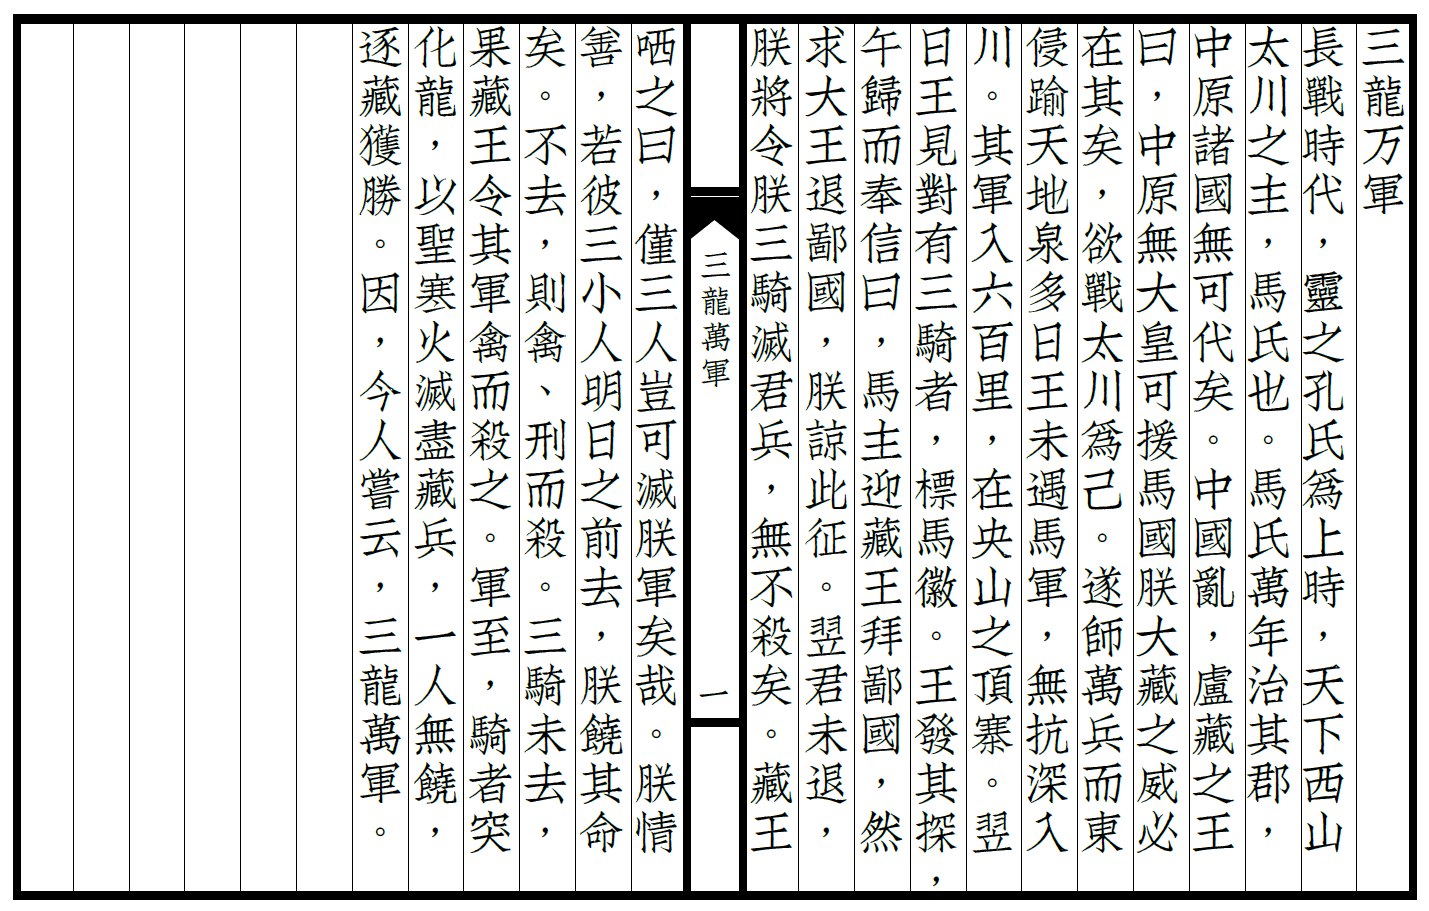
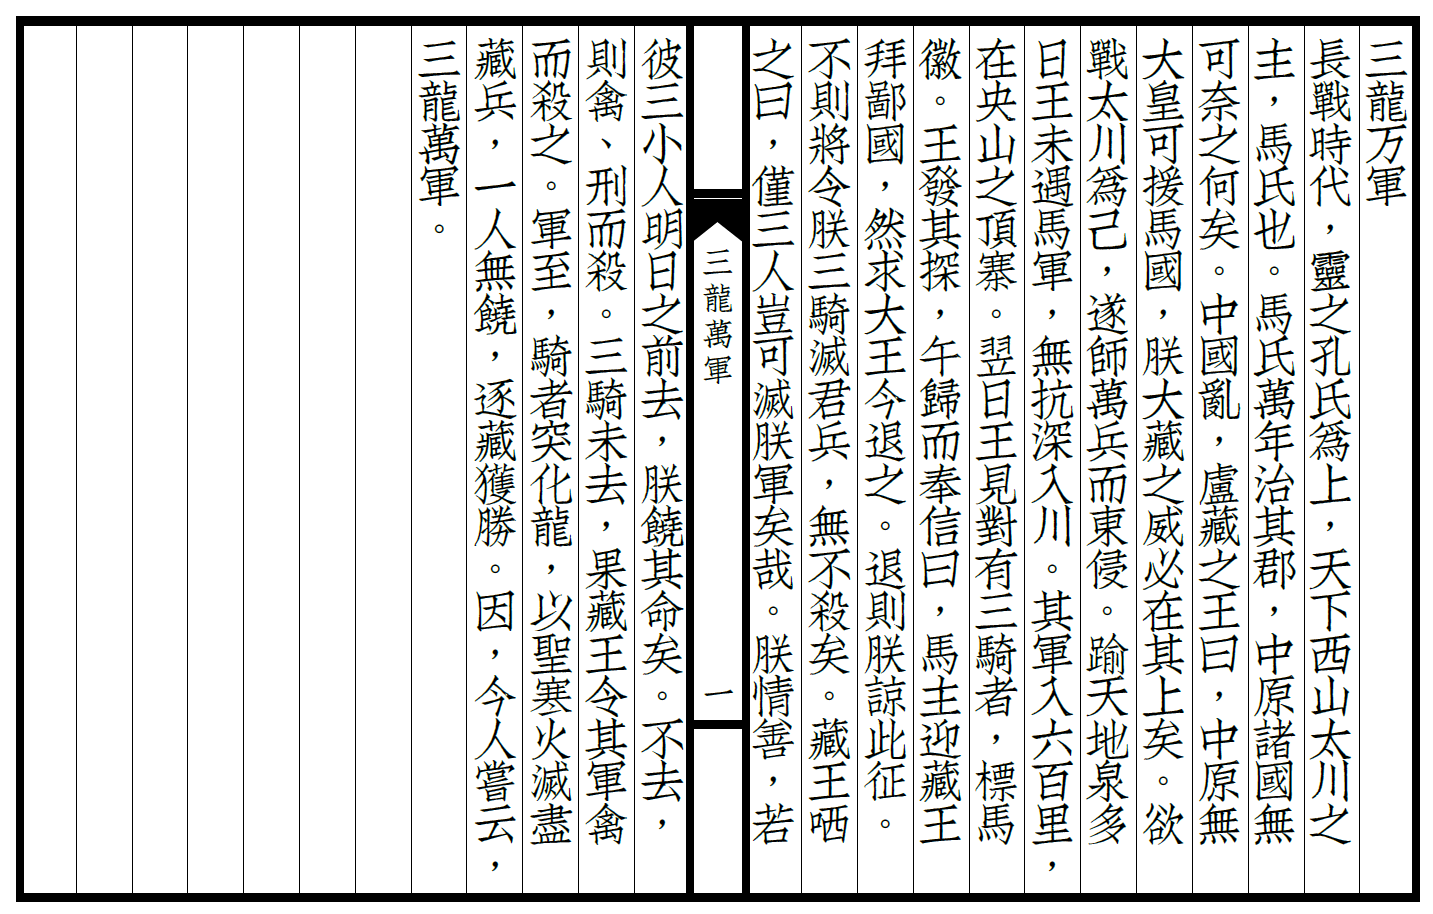
fix 3dragons

Changed region(s): [[0.0, 0.0, 0.9853, 0.9835]]

diff --git a/blog-cael/3dragons/index.html b/blog-cael/3dragons/index.html
@@ -54,42 +54,49 @@
 
 			<figure>
 				<img src="./text.png" alt="
-				长战时代，灵之孔氏为上时，天下西山
-				太川之主，马氏也。马氏萬年治其郡，
-				中原诸国無可代矣。中国乱，卢藏之王
-				曰，中原無大皇可援马国朕大藏之威必
-				在其矣，欲战太川为己。遂师萬兵而东
-				侵踰天地泉多日王未遇马军，無抗深入
-				川。其军入六百里，在央山之顶寨。翌
-				日王见对有三骑者，标马徽。王發其探，
-				午归而奉信曰，马主迎藏王拜鄙国，
-				然求大王退鄙国，朕谅此征。翌君未退，
-				朕将令朕三骑灭君兵，無不杀矣。藏王
-				哂之曰，仅三人岂可灭朕军矣哉。朕情
-				善，若彼三小人明日之前去，朕饶其命
-				矣。不去，则禽、刑而杀。三骑未去，
-				果藏王令其军禽而杀之。军至，骑者突
-				化龙，以圣寒火灭尽藏兵，一人無饶，
-				逐藏获胜。因，今人尝云，三龙萬军。">
+				三龙万军
+				长战时代，灵之孔氏为上，天下西山太川之
+				主，马氏也。马氏萬年治其郡，中原诸国無
+				可奈之何矣。中国乱，卢藏之王曰，中原無
+				大皇可援马国，朕大藏之威必在其上矣。欲
+				战太川为己，遂师萬兵而东侵。踰天地泉多
+				日王未遇马军，無抗深入川。其军入六百里，
+				在央山之顶寨。翌日王见对有三骑者，标马
+				徽。王發其探，午归而奉信曰，马主迎藏王
+				拜鄙国，然求大王今退之。退则朕谅此征。
+				不则将令朕三骑灭君兵，無不杀矣。藏王哂
+				之曰，仅三人岂可灭朕军矣哉。朕情善，若
+				彼三小人明日之前去，朕饶其命矣。不去，
+				则禽、刑而杀。三骑未去，果藏王令其军禽
+				而杀之。军至，骑者突化龙，以圣寒火灭尽
+				藏兵，一人無饶，逐藏获胜。因，今人尝云，
+				三龙萬军。">
 			</figure>
 
 
 			<h2>Translation</h2>
-
 			<p>
-				In the time of the long conflict, the Elven house of Kuon controlled most of the empire. The west of the central states was ruled by the House of Ma. Lord Ma was the ruler of Damak (Taichuan) vale, and had ruled for many years. Within the central states none could disturb them. However, one power did go to war with Clan Ma, that of Luzan.
+				In the time of the Long Conflict, when the Elven House of Kung was dominant, the Lords of the western mountains and the Damak vale (Taichuan) were the House of Ma. The House of Ma had for millennia ruled his commandery, and none in the many kindoms of the central plains could defeat him. 
 			</p>
 
 			<p>
-				The King of Luzan thought that since the central states were warring, were chaotic, if he would take advantage of this opportunity and invade the Ma State, there would be no great Emperor to protect them. Thus, he raised an army of ten thousand men and set off eastwards. Crossing the Spring of the Earth he encountered no army and no resistance, thus without pain or trouble he entered Damak vale. 
+				The central kingdoms were in disarray, and the King of Luzan said "There is no Emperor in the plains that can save the Kingdom of Ma, they alone are no match for the might of my great Luzan!" 
+			</p>
+			<p>
+				He wanted to conquer the Damak valley and rule over it as his own, so raised an army of ten thousand men, and marched east. Crossing the Spring of the Earth, and over the coming days, he did not meet any Ma army, and without resistance marched deep into the valley. 
+			</p>
+			<p>
+				600 <i>li</i> into Damak, his army encamped on top of Yang mountain. The next day, the King saw that across on the opposing mountain were three cavalrymen, bearing the insignia of House Ma. The King sent his scouts out to them, and by noon they returned, carrying a letter from Lord Ma, which said:
+			</p>
+			<p>
+				"Lord Ma welcomes Your Grace to his humble realm, but begs him to retreat at greatest haste. If Your Grace retreats his armies, then I will forgive this incursion. Else, I will command my three cavalrymen to destroy your army, with not one person left alive."
 			</p>
 
 			<p>
-				Atop Yaan peak his army encamped, but the next day they saw across from them three men. They were Ma soldiers, cavalrymen. Around noon, the Luzanese scouts returned with a letter from the Ma cavalrymen, which said: "Lord Ma welcomes the King of Luzan, but begs your majesty to retreat at once. Else, these three will destroy your entire army. If you retreat at once, I will forgive this incursion."
+				The King of Luzan derided this, saying "How can only three cavalrymen hope to defeat my army!? I'm in a good mood, if those three small men would leave before the next morn, I will spare their lives. If they do not leave, them you are to capture, torture, and execute them."
 			</p>
-
 			<p>
-				The King thought, three people could not defeat his entire army! He laughed, and said that if by tomorrow the cavalrymen remained, then they must be killed. The next day though, the men had not left, and accordingly the King ordered his soldiers to slay them. When they arrived, however, the threee cavalrymen turned into dragons, and wiped out each and every soldier, with not one person spared. 
+				The next morn, the three cavalrymen did not leave, and thus the King sent his soldiers to capture and kill them. As his army arrived, the men suddenly turned into dragons, and with their frost-flame breath, slaughtered the Luzanese soldiers, with not one being spared, and expelled the Luzanese from Damak. 
 			</p>
 
 			<p>
@@ -103,7 +110,7 @@
 			</p>
 
 			<p>
-				The <b>"central states"</b>, referred to as 中国, is the oft-used term for all small kingdoms which made up the shattered Ancient Empire. When united, fully or effectively (like the modern Xhaan dynasty) the Ancient Empire is referred to as simply the name of that dynasty, as 大商. However, more general terms are also used, such as 古代帝国, <i>Ancient Empire</i> (most common) and 安国 <i>Kingdom of Asyr</i> (note: 安 is a standin for a non-unicode character, made of radicals 日+帝, pronounced the same). 
+				The <b>"central states"</b>, referred to as 中国, is the oft-used term for all small kingdoms which made up the shattered Ancient Empire. When united, fully or effectively (like the modern Shaag dynasty) the Ancient Empire is referred to as simply the name of that dynasty, as 大商. However, more general terms are also used, such as 古代帝国, <i>Ancient Empire</i>, 安国 <i>Kingdom of Asyr</i>, or simply 天下 <i>under heaven</i> (note: 安 is a standin for a non-unicode character, made of radicals 日+帝, pronounced the same). 
 			</p>
 
 			<p>
